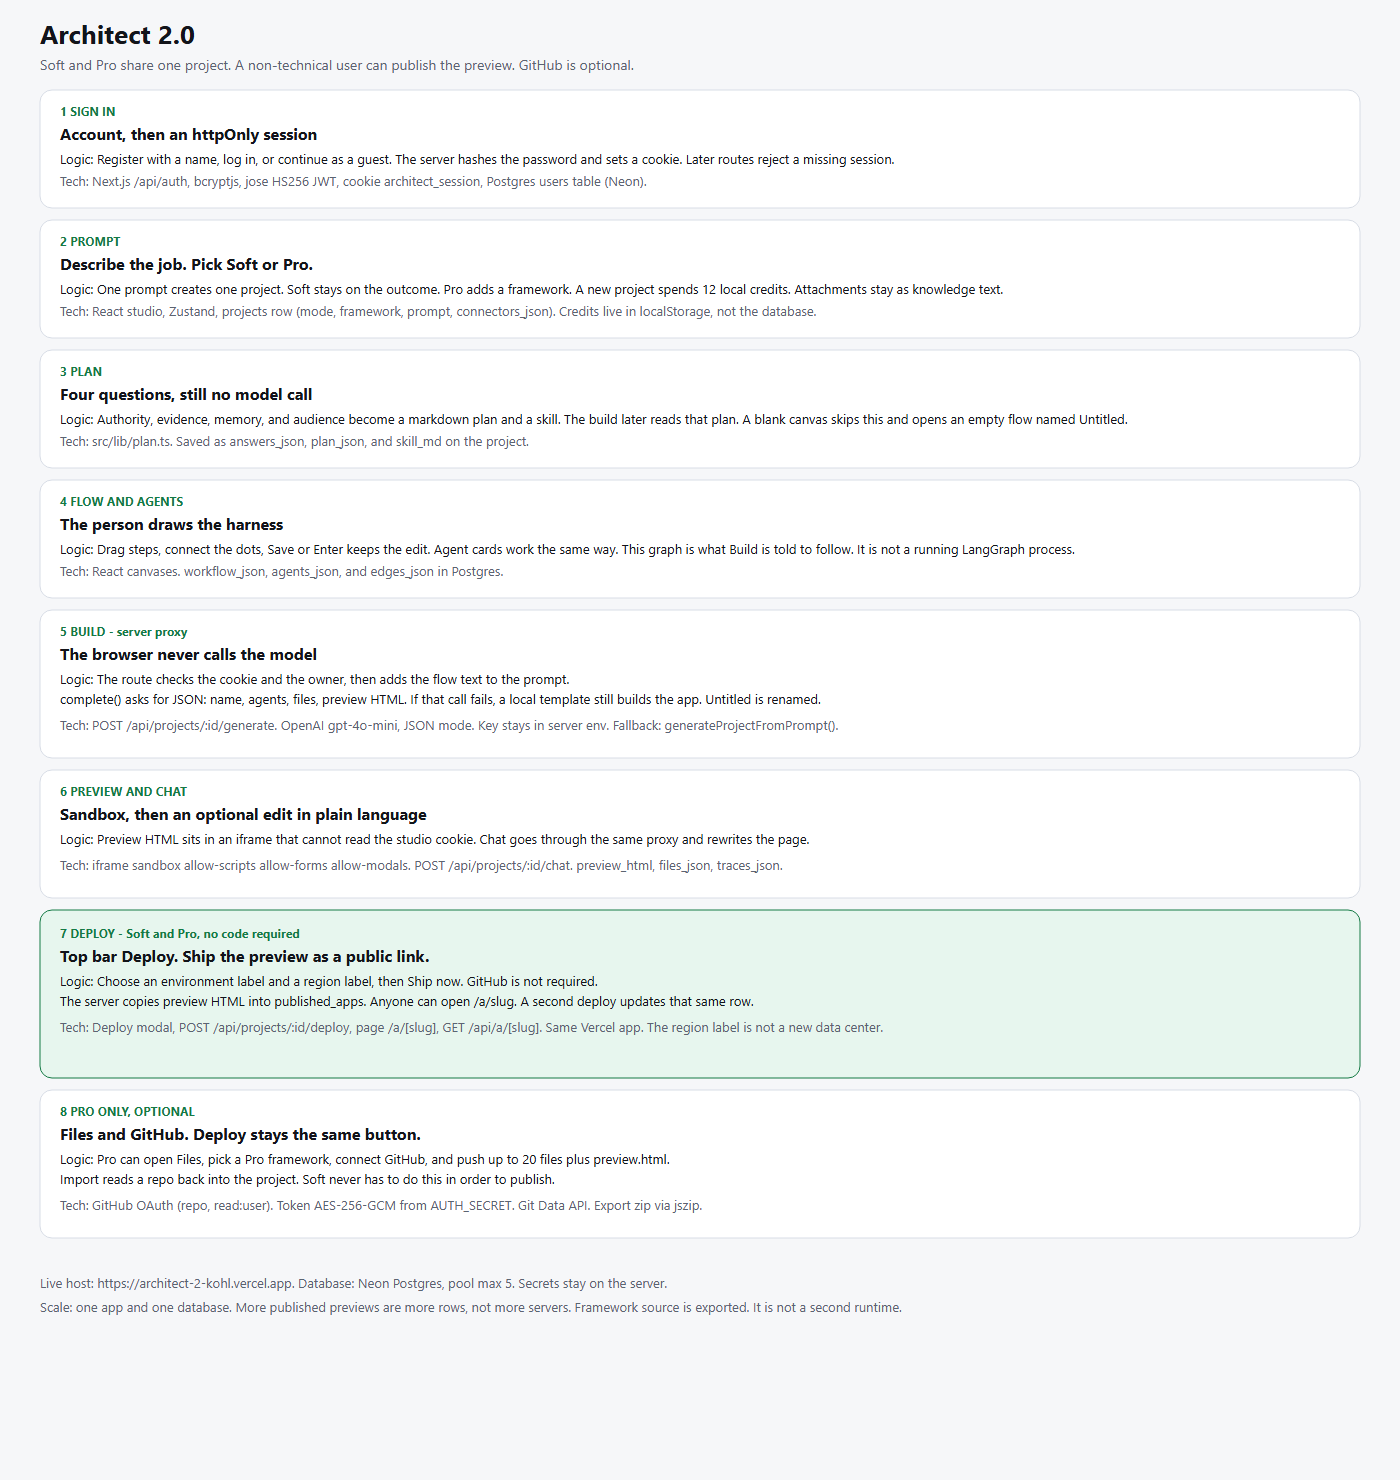
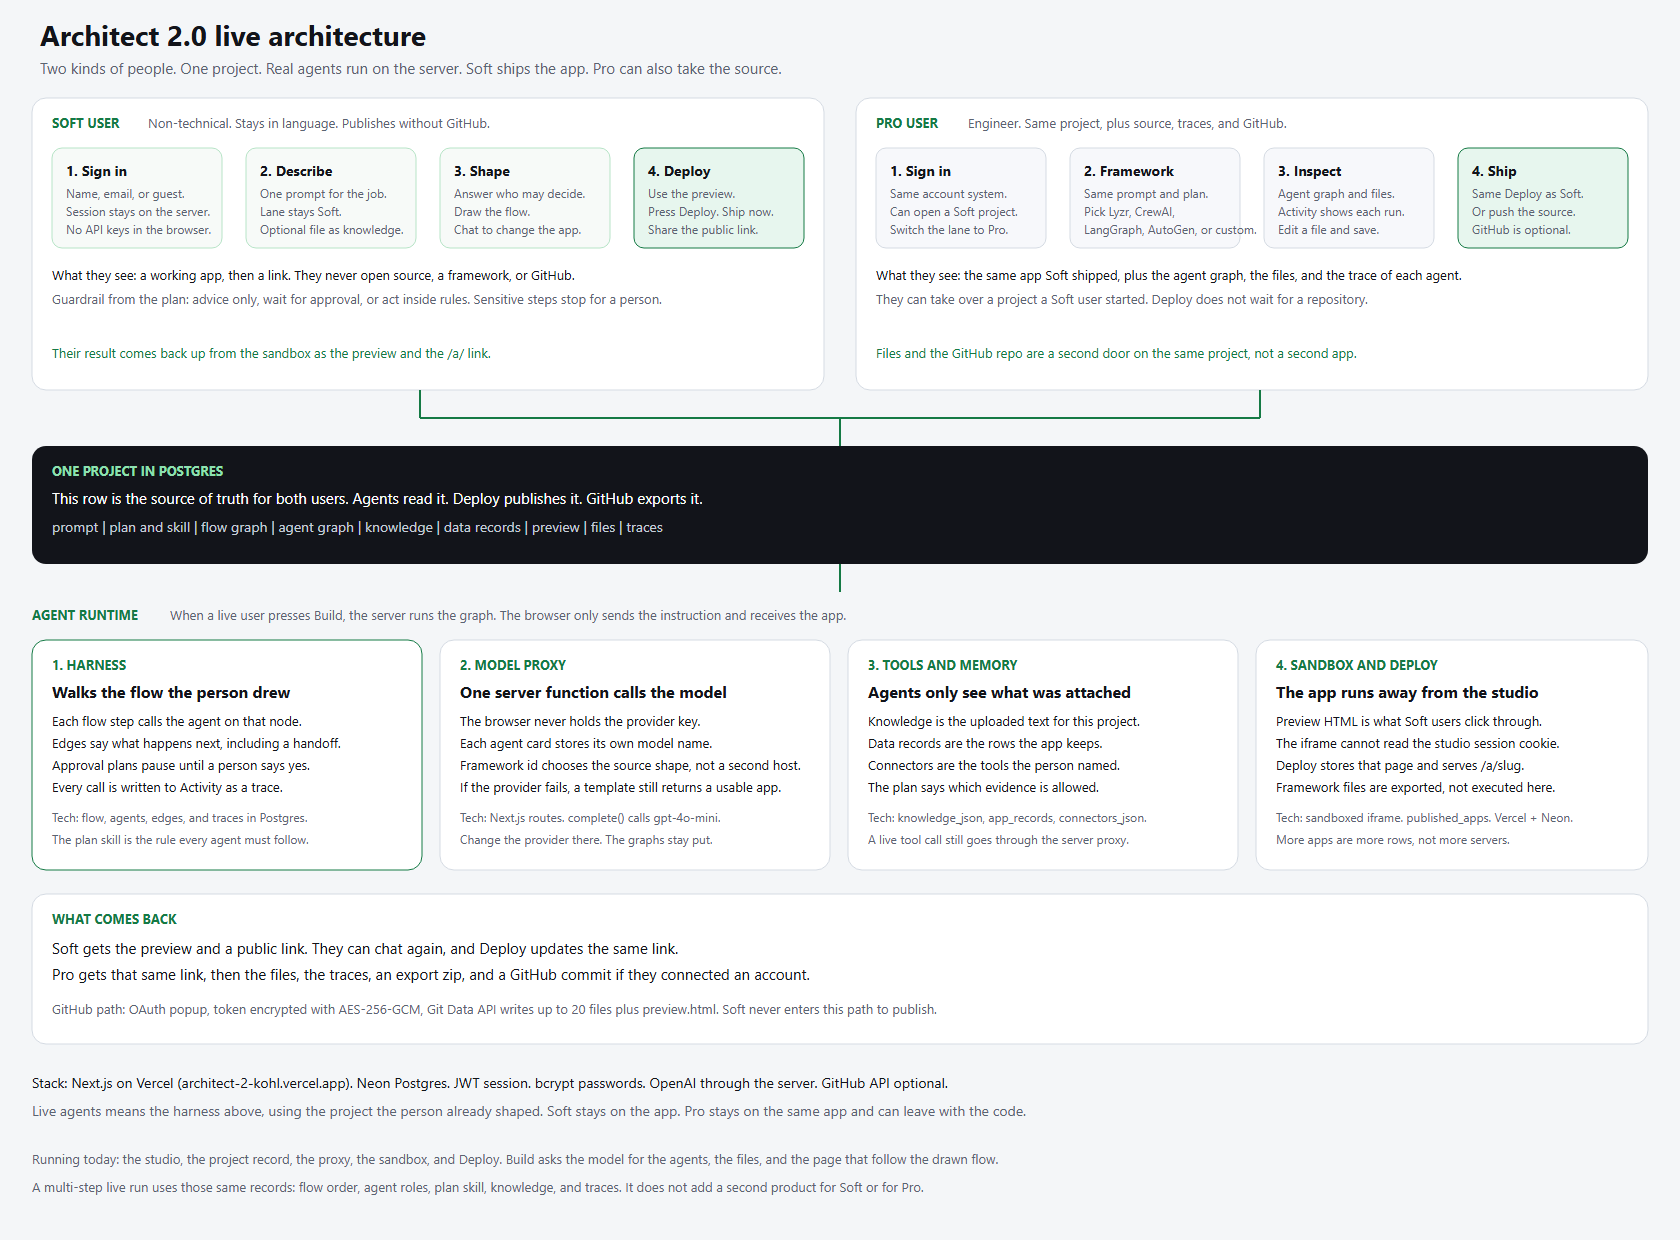
Draw the live architecture for Soft and Pro users with real agents.

diff --git a/ARCHITECTURE.md b/ARCHITECTURE.md
@@ -2,120 +2,137 @@
 
 Diagram: [docs/architecture-diagram.png](docs/architecture-diagram.png)
 
-Architect 2.0 is one Next.js application on Vercel, with one Postgres database on Neon. Soft and Pro are two lanes over the same project row. A person who never opens a file can still publish. Deploy copies the preview HTML to a public URL on this same app. GitHub is a separate, optional step for someone who wants the source.
+Architect 2.0 is the system a company would run for two kinds of people working on the same agent app.
 
-The browser talks only to this origin. Route handlers are the proxy: they hold `OPENAI_API_KEY`, the GitHub client secret, and the session secret.
+- A Soft user describes the job, shapes who the agents are and when a person must step in, uses the finished app, and publishes a link. They do not open source code.
+- A Pro user can start that same way, or take over a Soft user’s project. They see the agent graph, the files, and the trace of each run. They can deploy the same app, and they can push the source to GitHub.
 
-## Key decisions
+Both of them write one project. Agents, the preview, and the public link all come from that record.
 
-### Sandboxing
+Live host: https://architect-2-kohl.vercel.app  
+Stack: Next.js on Vercel, Neon Postgres, a server-side model call, an iframe sandbox, optional GitHub.
 
-**Decision.** A generated app is an HTML document, not a process. It runs in a sandboxed iframe. The studio does not execute generated Python, LangGraph, or CrewAI.
+## How a live request moves
 
-**Technology.** The preview iframe uses `sandbox="allow-scripts allow-forms allow-modals"` and `srcDoc`. It does not set `allow-same-origin`, so scripts in the preview cannot read the studio’s `architect_session` cookie. The public page `/a/[slug]` loads the stored HTML into the same kind of iframe. `GET /api/a/[slug]` returns that HTML with `Content-Type: text/html` and `Cache-Control: no-store`.
+```text
+Soft or Pro in the browser
+        |
+        v
+Session and project API          keys stay on the server
+        |
+        v
+One project row                  plan, flow, agents, knowledge, files, preview
+        |
+        v
+Agent harness                    walks the flow, calls each agent, writes traces
+        |
+        +-- model proxy          one function, provider key hidden
+        +-- tools and memory     knowledge, records, named connectors
+        v
+Sandbox                          the app the person can click
+        |
+        +-- Soft                 preview and public /a/ link
+        +-- Pro                  that link, plus files, traces, and optional GitHub
+```
 
-**Logic.**
+### Soft user
 
-1. Build or chat writes `preview_html` on the project.
-2. The studio puts that string in the iframe. It does not navigate the parent page to it.
-3. Model-written file paths are kept only when they do not contain `..`. Contents are truncated before they are saved.
-4. Export and GitHub hand the source to the person who wants to run it outside this sandbox.
+1. **Sign in.** Name and email, or a named guest. The server sets an httpOnly JWT (`architect_session`, HS256, 30 days). Later calls fail without that cookie.
+2. **Describe.** One prompt creates one project. The lane is Soft. A text, markdown, CSV, or JSON file can be attached as knowledge. Twelve local studio credits are spent on the new project.
+3. **Shape.** Four plan questions decide authority (advice only, act after approval, or act inside rules), which evidence the agents may use, whether the app keeps history, and who the screen is for. The person then draws the flow: each step, and which step runs next. Chat can ask for a change in plain language.
+4. **Agents run.** Build sends that project to the server. The harness follows the flow. The person watches the preview, not a terminal.
+5. **Deploy.** Top-bar Deploy, then Ship. The preview becomes a public page at `/a/…`. No file editor. No GitHub account.
 
-There is no container, VM, or per-app worker.
+If the plan said a person must approve, the run is not allowed to finish a sensitive step by itself. That rule is stored with the project (`skill_md` and `plan_json`) and is part of what the agents are told.
 
-### Agent harness
+### Pro user
 
-**Decision.** The harness is data on the project: a plan, a flow the person drew, and an agent graph. Framework names are labels for the source the model writes. They are not live runtimes inside Architect.
+1. **Sign in** on the same account. They can open a project a Soft user already made and switch the lane to Pro. It is still one row.
+2. **Choose a framework.** Lyzr Agents and CrewAI are available in both lanes. LangGraph, AutoGen, OpenAI Agents, and Custom are Pro choices. The framework tells the build which shape of source to write. It does not start a second product.
+3. **Inspect.** The agent canvas is the graph the harness ran. Files are that source. Activity is the trace list. They can edit a file and save it.
+4. **Ship.** Deploy is the same button Soft used, and it does not require GitHub. If they want the repository, they connect GitHub and push. Export downloads a zip of the same files.
 
-**Technology.** React canvases in the workspace. Postgres columns `plan_json`, `skill_md`, `workflow_json`, `agents_json`, `edges_json`, `traces_json`. Planning logic is `src/lib/plan.ts`. The build route turns the flow into plain text and passes it to `buildApp()` in `src/lib/llm.ts`.
+## Sandboxing
 
-**Logic.**
+**Decision.** The app a user clicks is not the studio, and it is not allowed to see the studio session. Agent-written framework code is not executed inside Architect. It is saved so a Pro user can read it, export it, or push it.
 
-1. Plan asks four questions before any model call: how much the agent may decide, what evidence it may use, whether the app keeps history, and who the screen is for. The answers become a markdown plan and a short skill.
-2. The flow canvas stores steps and connections. Save or Enter writes the graph. Cancel or Escape discards the edit. A blank canvas starts as an empty flow named Untitled.
-3. The agent canvas stores cards and links the same way. Each card has a name, a role, a model field, and tools.
-4. Build appends the flow text to the prompt and asks the model for agents, edges, files, and a preview that follows those steps.
-5. Activity appends a trace when a chat edit lands. Soft works through the plan, the flow, the preview, and chat. Pro sees the same harness plus files.
-
-Lyzr Agents and CrewAI are available in both lanes. LangGraph, AutoGen, OpenAI Agents, and Custom are Pro framework ids. Build asks for source in that style. Architect does not boot those frameworks.
-
-### Proxy
-
-**Decision.** The browser never calls OpenAI or the GitHub token endpoint. Next.js route handlers on Vercel are the only callers. Every project route checks the session and `user_id`.
-
-**Technology.** Next.js App Router route handlers. Session: `jose` HS256 JWT in an httpOnly cookie, `SameSite=Lax`, `Secure` in production, 30 days. Passwords: `bcryptjs`. The signing key is `AUTH_SECRET`.
-
-**Logic.**
-
-| Step | Route | What the server does |
-| --- | --- | --- |
-| Sign in | `POST /api/auth` | Hash or check the password, write the user, set `architect_session`. Guest creates a named session that is not a lasting account. Reset stores a token in `password_resets` and returns a private link. |
-| Create | `POST /api/projects` | Insert one project row owned by that user. |
-| Build | `POST /api/projects/:id/generate` | Load the row, append the flow, call `complete()`, save agents, files, and preview. Rename Untitled from the result. |
-| Chat | `POST /api/projects/:id/chat` | Send the instruction plus the current HTML and files. Replace the preview when the model returns a full page. |
-| GitHub | `/api/github/start`, `/api/github/callback`, `POST /api/projects/:id/github` | Keep the client secret and the user token on the server. |
-| Deploy | `POST /api/projects/:id/deploy` | Copy preview HTML into `published_apps` for that owner. |
-
-The OpenAI key and the GitHub secrets are read from the server environment. They are not sent to the client and they are not committed.
-
-### Model-agnosticism
-
-**Decision.** One function knows the provider. The rest of the product stores a framework id and a model name on each agent as data. If that provider does not answer, a local template still builds the app.
-
-**Technology.** `complete()` in `src/lib/llm.ts` calls `https://api.openai.com/v1/chat/completions` with `gpt-4o-mini`, temperature `0.3`, and `response_format: json_object`. Build, chat edits, and framework rewrites all go through it. The fallback is `generateProjectFromPrompt()` in `src/lib/generator.ts`. It does not need a key.
+**Technology.** Preview uses an iframe with `sandbox="allow-scripts allow-forms allow-modals"` and `srcDoc`. `allow-same-origin` is left off, so the preview cannot read `architect_session`. Deploy copies `preview_html` into `published_apps`. The public page `/a/[slug]` loads that HTML into the same kind of iframe. `GET /api/a/[slug]` returns the document with `Cache-Control: no-store`. File paths from the model are rejected when they contain `..`.
 
 **Logic.**
 
-1. The project row stores `framework` (`lyzr`, `crewai`, `langgraph`, `autogen`, `openai-agents`, or `custom`).
-2. Each agent JSON object stores its own `model` string. The canvas can edit that field. The studio’s one build call still uses `gpt-4o-mini` unless `complete()` is changed.
-3. `complete()` returns null when the key is missing or the HTTP call fails. It does not throw the provider’s raw error into the page.
-4. `buildApp()` then builds agents, files, and HTML from the prompt and the framework id, and the chat says this version used Architect’s template.
-5. A different provider is a change inside `complete()` and the fallback note. The canvases, the project row, and the deploy path stay as they are.
+1. The harness finishes and writes the user-facing page onto the project.
+2. Soft sees that page immediately in the preview.
+3. Deploy publishes that page. A second deploy updates the same slug.
+4. The studio process, the database credentials, and the model key never sit inside the iframe.
 
-Connector chips (Gmail, Slack, Notion, and the rest) are names in `connectors_json`. They are not OAuth sessions to those products.
+Many published apps do not mean many servers. Each app is a row. The sandbox is the iframe boundary plus the path checks.
 
-### GitHub integration
+## Agent harness
 
-**Decision.** GitHub is optional. Soft does not need it to publish. When a person connects it, the server exchanges the OAuth code, encrypts the token, and pushes a tree. This is not a git working tree inside the editor.
+**Decision.** The harness is the live runner for the project the person already drew. It is not a separate product, and it is not a LangGraph or CrewAI process hosted beside the studio. Those names are the source style a Pro user asked for. The runner Architect itself uses is the flow and the agent graph on the project.
 
-**Technology.** OAuth code flow, scope `repo` and `read:user`. Callback: `/api/github/callback`. State is checked against an httpOnly cookie before the code is exchanged. The access token is encrypted with AES-256-GCM; the key is a SHA-256 of `AUTH_SECRET`. Push uses the Git Data API: create the user repo, post a git tree, post a commit, move `refs/heads/main`. Import uses `fetchRepoFiles()`. Export uses `jszip` at `GET /api/projects/:id/export`.
+**Technology.** The flow lives in `workflow_json` (steps and edges). Agents live in `agents_json` (name, role, model, tools). Links between agents live in `edges_json`. The plan and the skill live in `plan_json` and `skill_md`. Each run appends `traces_json`. Build and chat enter through `POST /api/projects/:id/generate` and `POST /api/projects/:id/chat`, which call `buildApp()` and `editApp()` in `src/lib/llm.ts`.
+
+**Logic for a real run.**
+
+1. Read the owner’s project. Reject the call if the session does not own it.
+2. Turn the drawn flow into the order of work. Each node is one agent. Each edge is the handoff, including a label such as “then” or a condition the person typed.
+3. Call the model proxy once per agent, with that agent’s role, the plan skill, the knowledge, and the output of the previous step.
+4. If the plan’s authority is “act after approval”, stop and wait. The studio shows that wait. The run does not invent a yes.
+5. The last step produces the preview the Soft user operates, and the files a Pro user can open.
+6. Write a trace for the step so Activity can show who ran, and whether it finished.
+
+A blank canvas starts with an empty flow named Untitled. Build renames Untitled from the result. Chat is another pass through the same harness: the instruction is applied to the current page and files, then the preview is replaced.
+
+What is running in this repository today is that control plane: the graphs are stored, and Build asks the model for the agents, the files, and the page that follow the flow. A multi-step live run uses those same records. It does not add a second app for Soft or for Pro.
+
+## Proxy
+
+**Decision.** Browsers talk only to Architect. OpenAI and GitHub are called by Next.js route handlers on Vercel. The provider key, the GitHub client secret, and the user token never go to the page.
+
+**Technology.** Next.js App Router on Vercel. `jose` signs the session. `bcryptjs` hashes passwords. `AUTH_SECRET` is the signing key and the base for encrypting GitHub tokens.
 
 **Logic.**
 
-1. The top bar opens a popup to GitHub authorize, with a redirect back to this origin.
-2. The callback posts a message to the opener only on the same origin, then stores `github_login` and the encrypted token on the user.
-3. Push creates the repo if it is missing, then commits up to 20 project files plus `preview.html`.
-4. The project selected in the top bar is the one that is exported, pushed, or deployed.
-5. A failed GitHub response becomes a short studio error. The token is not shown.
+| Call from the browser | Server action |
+| --- | --- |
+| `POST /api/auth` | Check or create the user. Set `architect_session`. A password reset stores a token in `password_resets` and returns a private link. |
+| `POST /api/projects` | Insert the project for that user. |
+| `POST /api/projects/:id/generate` | Load the flow and the plan. Call the model. Save agents, files, preview, traces. |
+| `POST /api/projects/:id/chat` | Apply one instruction to the current app. |
+| `/api/github/*` and `POST /api/projects/:id/github` | OAuth and push, server-side only. |
+| `POST /api/projects/:id/deploy` | Publish the preview for either lane. |
 
-### Deployment and scaling
+## Model-agnosticism
 
-**Decision.** Soft and Pro use the same Deploy button. Publishing does not ask for a GitHub account, a framework, or a file edit. A published app is an HTML snapshot on this Vercel project, so adding apps adds database rows, not servers.
+**Decision.** The harness does not know a vendor. It knows an agent with a role and a model field. One function, `complete()` in `src/lib/llm.ts`, is the only place that knows the chat-completions URL.
 
-**Technology.** React `DeployModal`. `POST /api/projects/:id/deploy`. Table `published_apps`. Page `/a/[slug]` and `GET /api/a/[slug]`. Host: Vercel project `architect-2`, live at https://architect-2-kohl.vercel.app. Database: Neon Postgres through `pg`, pool reused on `globalThis`, `max: 5`. SSL is on unless the host is localhost. Schema is created at boot with `CREATE TABLE IF NOT EXISTS` in `src/lib/db.ts`.
+**Technology.** Today that function calls OpenAI `gpt-4o-mini` with JSON mode, temperature 0.3. The key is `OPENAI_API_KEY` on the server. Each agent card stores its own `model` string. The project stores a `framework` id. If `complete()` returns nothing, `generateProjectFromPrompt()` still builds agents, files, and a preview, and the chat says the template was used. The raw provider error is not shown as the product.
 
-**Logic, including a Soft user.**
+**Logic.** Changing provider means changing `complete()`. The Soft flow, the Pro file view, the project row, and Deploy stay as they are. Connector names on the prompt (Gmail, Slack, and the rest) are stored in `connectors_json`. A live tool call for one of those products still has to pass through this proxy. The name on the chip is not, by itself, a login to that product.
 
-1. The person finishes a preview. They press **Deploy** on the top bar. The control is not behind the Pro lane.
-2. The dialog asks for an environment label (preview, staging, or production) and a region label (us-east, eu-west, ap-south, us-west). Those labels are sent with the request. They do not start a new region or a new host. The page is served by this one app.
-3. **Ship now** reads `preview_html`, builds a slug from the project name plus the last six characters of the id, and inserts or updates `published_apps`.
-4. The project is marked deployed and stores `deploy_url`. My projects and Published list it.
-5. Opening the link runs `/a/[slug]`, which loads the HTML from Postgres into the sandbox iframe. A second deploy rewrites that row.
-6. Pro can still push source to GitHub first. That push is not a gate on step 3.
+## GitHub integration
 
-**Scaling limit.** One Next.js deployment and one database. The pool allows five connections per server process. Model prompts, file bodies, and GitHub trees are capped (about 20 files on a push). Studio credits (start at 200, 12 per new project, add 10 in Settings) are a browser counter, not a billing service and not a capacity limit.
+**Decision.** GitHub is how a Pro user takes the source out. It is not how a Soft user ships. Deploy does not check for a repository.
+
+**Technology.** OAuth code flow, scopes `repo` and `read:user`. The callback checks a state cookie, exchanges the code on the server, and stores the token with AES-256-GCM. The encryption key is derived from `AUTH_SECRET`. Push uses the Git Data API: create the repo if needed, write a tree of up to 20 files plus `preview.html`, commit, and move `main`. Import reads a repository tree back into `files_json`. Export builds a zip with `jszip`, including `preview.html` and `architect.meta.json`.
+
+**Logic.** The project selected in the top bar is the one that is pushed, imported, exported, or deployed. The popup reports success back to the studio with `postMessage` on the same origin only.
+
+## Deployment and scaling
+
+**Decision.** Soft and Pro publish through the same Deploy action. A published app is the preview, hosted by Architect, not a new machine per customer and not a GitHub Pages site.
+
+**Technology.** The dialog collects an environment label and a region label, then `POST /api/projects/:id/deploy` writes `published_apps` and the project’s `deploy_url`. The slug is the project name plus the last six characters of the id. The page is served by this Vercel app from Neon. The pool is process-wide, `max: 5`, SSL off only for localhost. Tables are created at boot with `CREATE TABLE IF NOT EXISTS`.
+
+**Logic.**
+
+1. The user has a preview they have already tried.
+2. They press Deploy. Soft can do this from the top bar with no other setup.
+3. Ship copies the HTML. The public URL is `/a/<slug>`.
+4. Publishing again overwrites that row, so the link stays stable.
+5. Pro may also push source. That push is a copy of the files. It is not what makes the link stay up.
+
+**Scale.** One web app and one database. Growth is more project rows and more published rows. Model prompts and GitHub trees are size-capped so one project cannot unbounded the call. Studio credits (200 to start, 12 per new project, add 10 in Settings) are a local allowance in the browser, not the capacity of the platform.
 
 Secrets stay in the host environment and out of git: `DATABASE_URL`, `AUTH_SECRET`, `OPENAI_API_KEY`, `GITHUB_CLIENT_ID`, `GITHUB_CLIENT_SECRET`.
-
-## Step by step
-
-| Step | Who | Technology | Logic |
-| --- | --- | --- | --- |
-| 1. Sign in | Both | `/api/auth`, bcryptjs, jose, Postgres `users` | Name required. JWT cookie for 30 days. Guest is a named session, not a real account. |
-| 2. Prompt | Both | React, Zustand, `projects` | One prompt, one project. Lane is `mode`. New project spends 12 local credits. |
-| 3. Plan | Both | `src/lib/plan.ts` | Four questions become `plan_json` and `skill_md`. No model call. |
-| 4. Flow | Both | Canvas, `workflow_json` | Person draws steps. Build is told to follow them. Blank start is Untitled and an empty flow. |
-| 5. Build | Both | `POST .../generate`, `complete()`, gpt-4o-mini | Owner check, then JSON generation, then template if the model does not answer. |
-| 6. Preview and chat | Both | Sandboxed iframe, `POST .../chat` | Page runs without the studio cookie. Chat revises HTML through the proxy. |
-| 7. Deploy | Both, including Soft | `POST .../deploy`, `published_apps`, `/a/[slug]` | Ship copies the preview to a public URL on this app. No GitHub. |
-| 8. Files and GitHub | Pro, optional | Files panel, OAuth, Git Data API, jszip | Edit source, push up to 20 files, or download a zip. Deploy does not wait for this. |
